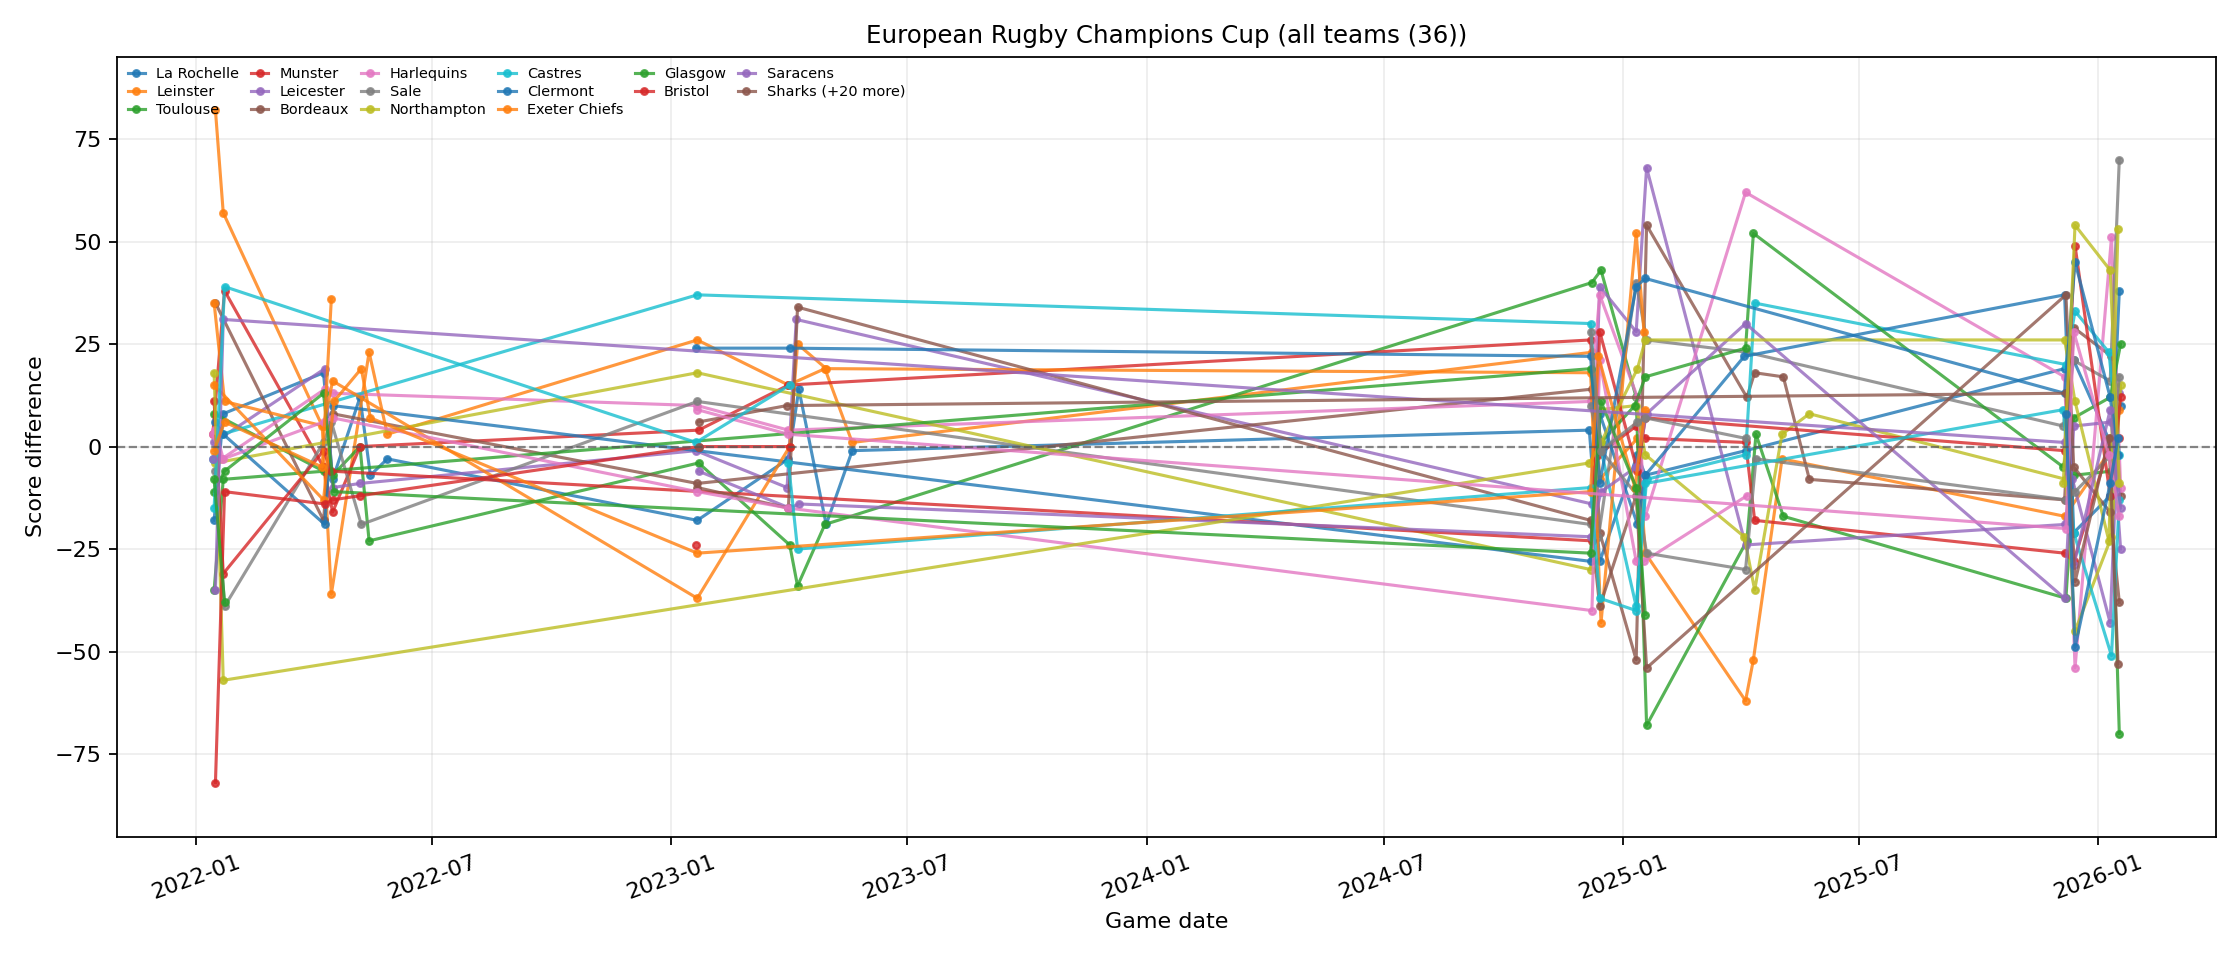
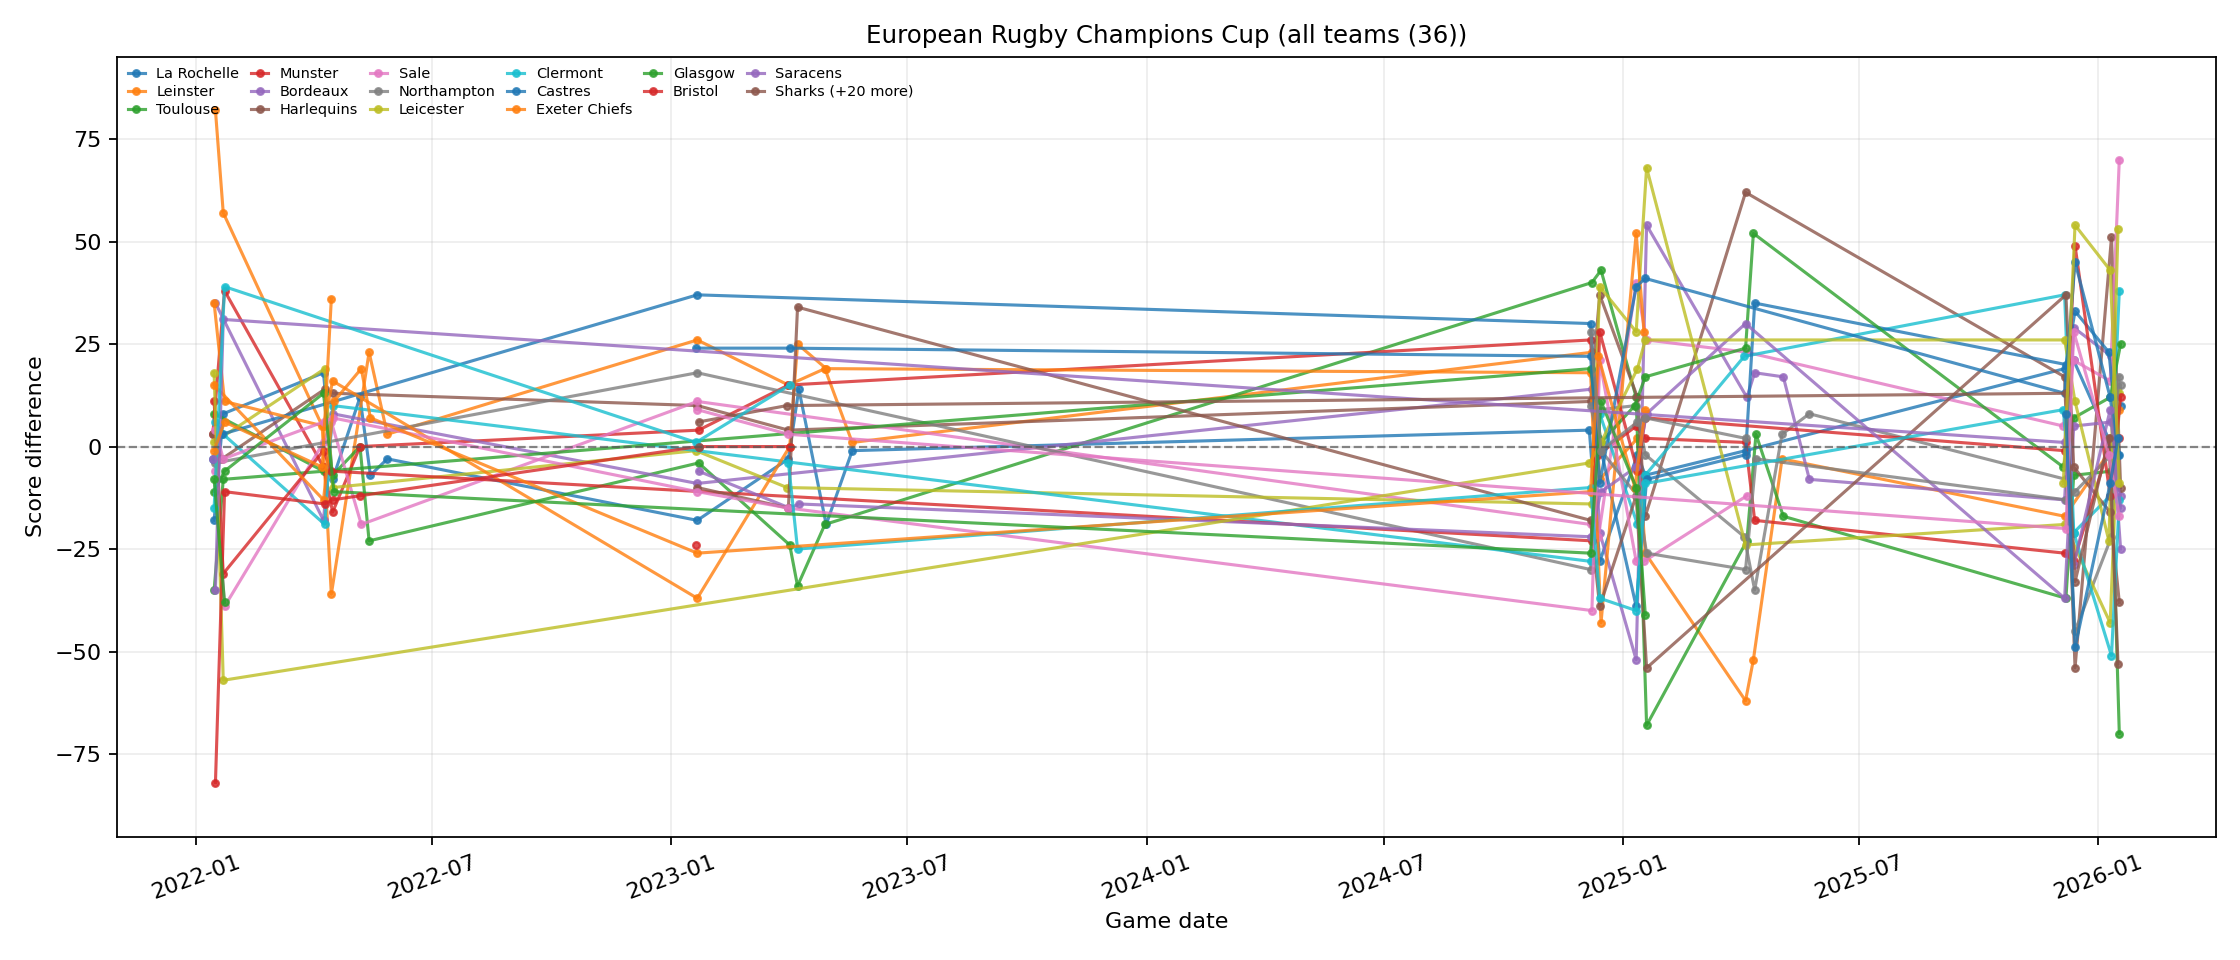
updates after feedback - Clone URL bug — Update the GitHub URL in Reproduction StepsService account permissions — Document required GCP rolesLooker Studio reproducibility — Add public report template link or configSource-data limitation — Filter/mark other team namesStreaming — Consider adding Pub/S

diff --git a/README.md b/README.md
@@ -99,7 +99,10 @@ flowchart LR
 ## Prerequisites
 
 1. Docker and Docker Compose
-2. GCP service account key at `secrets/cloud_key.json`
+2. GCP service account key at `secrets/cloud_key.json` with required roles:
+   - BigQuery Data Editor
+   - BigQuery Job User
+   - Storage Admin
 3. Access to your target BigQuery project
 
 ## Configuration
@@ -176,8 +179,8 @@ Run from repository root.
 
 1. Clone and enter the repository:
 
-  git clone https://github.com/tomkeane/rugby_data_project.git
-  cd rugby_data_project
+  git clone https://github.com/tomkeane07/rugby-data-pipeline.git
+  cd rugby-data-pipeline
 
 2. Create local configuration files:
 
@@ -238,7 +241,16 @@ Optional local end-to-end run (outside Kestra):
 
 ### Looker Studio Tile Validation
 
-1. Tile 1 (categorical dPrecedenceistribution): `vw_league_margin_categorical`
+**To recreate the live dashboard**: 
+- Live report: [Looker Studio Report](https://datastudio.google.com/reporting/5ad118e2-45bb-4b7c-908c-6196c9b91ef7)
+- Report screenshots and PDF evidence: `docs/assets/looker-studio/`
+- To create a new Looker Studio report from scratch, use the same BigQuery datasource and BigQuery connector configuration. Chart tiles should connect to:
+  - Tile 1: `vw_league_margin_categorical`
+  - Tile 2: `vw_league_score_difference_timeseries`
+
+**Validation steps:**
+
+1. Tile 1 (categorical distribution): `vw_league_margin_categorical`
    - Expected fields: `league_name`, `avg_match_margin`, `median_match_margin`, `matches`
   - Quick check query (replace placeholders with your values):
 
@@ -394,3 +406,25 @@ Timeseries charts (one image per league):
 - Local raw extracts, secrets, dbt build outputs, and Terraform state are intentionally git-ignored.
 - Score-difference symmetry is protected by a custom dbt data test in `dbt/rugby_stats/tests/fct_team_performance_score_symmetry.sql`.
 - The `team_stats` BigQuery table is **partitioned by `game_date`** and **clustered by `team_id`**. Partitioning by date allows dashboard and dbt queries that filter on a season or date range to scan only the relevant partitions, reducing cost and latency. Clustering by `team_id` further optimises the most common access pattern: filtering or aggregating stats for a specific team.
+
+## Future Enhancements
+
+### Streaming Pipeline Extension
+
+The current implementation is **batch-only** (daily scheduled ingestion). For live match-day statistics and real-time dashboard updates, consider:
+
+- **Google Cloud Pub/Sub + Dataflow**: Stream match events and player performance stats from rugbypy API webhooks into Pub/Sub topics, process with Dataflow, and write micro-batches to BigQuery in near real-time.
+- **Apache Kafka Alternative**: Deploy Kafka on GKE or self-managed infrastructure if Pub/Sub integration is not preferred.
+- **BigQuery Streaming Inserts**: Ingest event-level data (e.g., try scores, territorial changes) as they occur, then use dbt incremental models to aggregate into fact tables.
+
+Benefits:
+- Live dashboard tiles updating every few seconds during matches.
+- Reduced ingestion latency from hours (daily) to minutes or seconds.
+- Ability to trigger alerts based on real-time performance thresholds.
+
+Reference architecture:
+```
+rugbypy webhook → Pub/Sub topic → Dataflow pipeline → BigQuery staging tables → dbt incremental models → Live Looker Studio tiles
+```
+
+This extension is optional per the DE Zoomcamp rubric (batch **or** streaming is sufficient), but would be a natural next step for expanding dashboard interactivity and enabling match-day analysis workflows.

diff --git a/docs/assets/looker-studio/README.md b/docs/assets/looker-studio/README.md
@@ -2,6 +2,8 @@
 
 This folder contains Looker Studio report artifacts.
 
+**Live report**: https://datastudio.google.com/reporting/5ad118e2-45bb-4b7c-908c-6196c9b91ef7
+
 ## Preview
 
 ### Report Page 1
